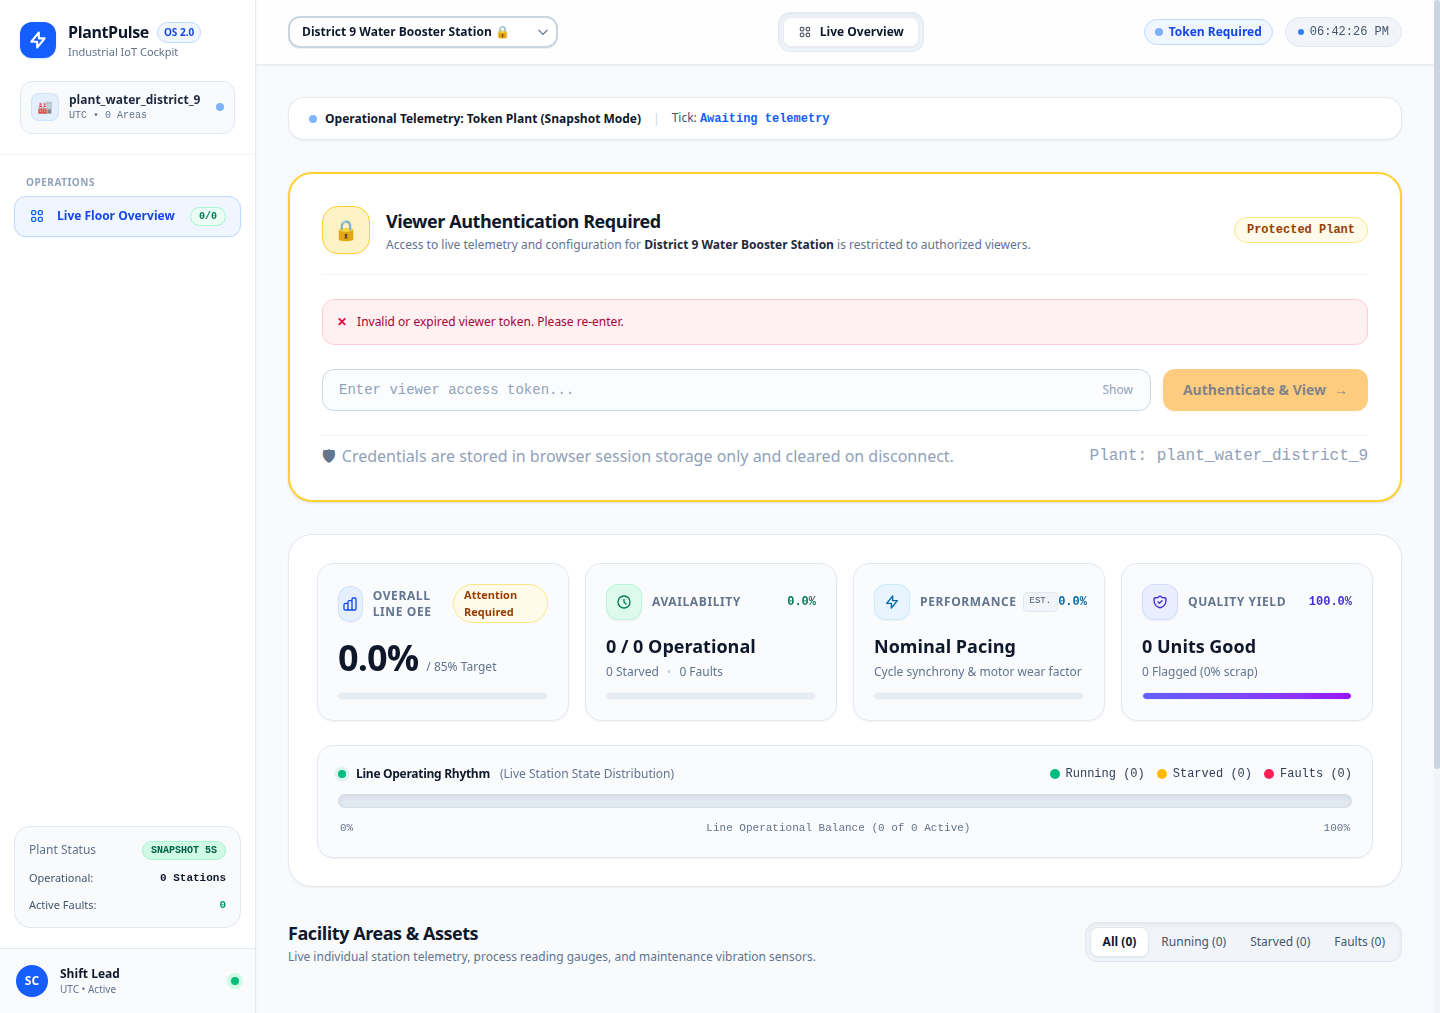
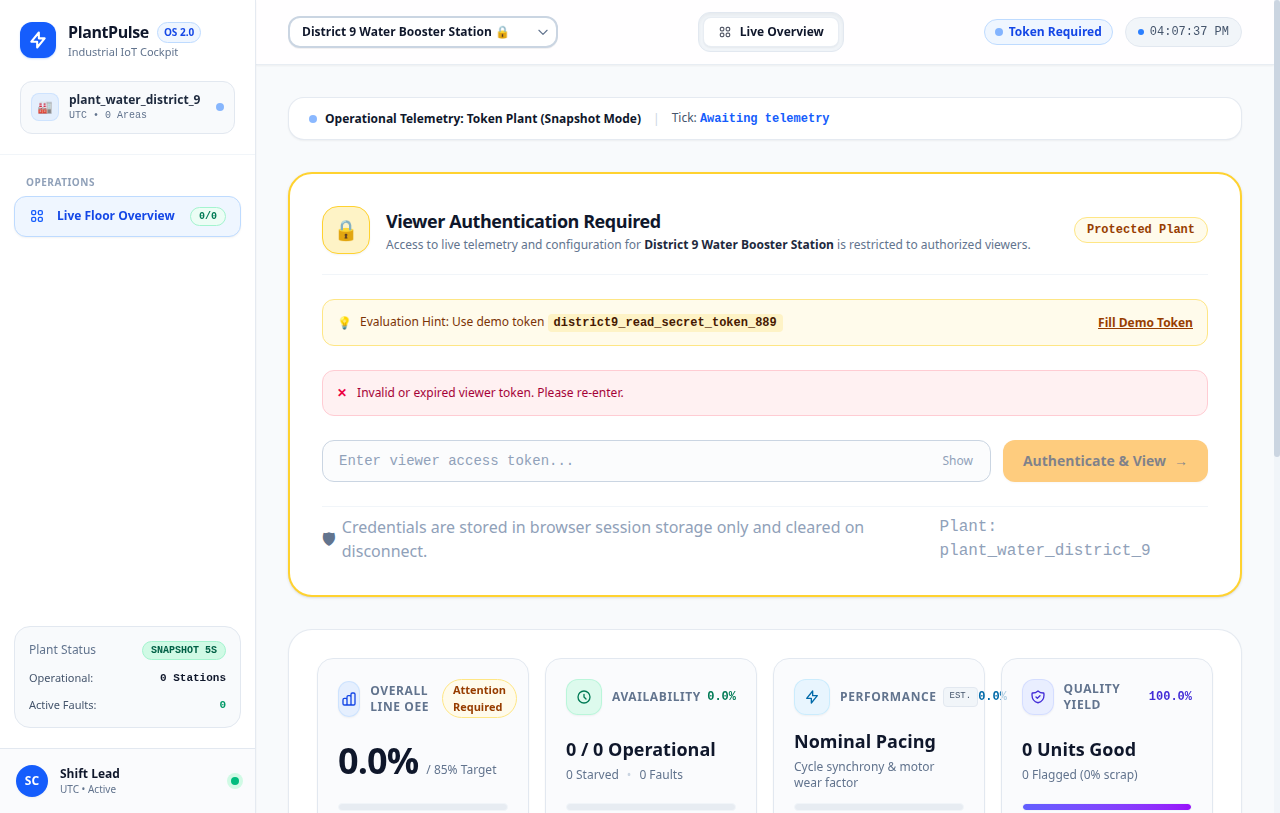
docs: rewrite README.md matching code, architecture, security model, and limitations (#86)

diff --git a/README.md b/README.md
@@ -8,7 +8,7 @@
 
 PlantPulse is a telemetry platform for simulated industrial plants. I built it to gain hands-on experience with MQTT, FastAPI, SQLite, WebSockets, Next.js, Docker Compose, pytest, and GitHub Actions. A Python simulator publishes machine data over MQTT, and a FastAPI service stores it and serves it to a Next.js dashboard. It models an 8040 membrane plant with four stages (housing, casting, assembly, and quality control) and extensible multi-plant definitions like municipal water booster stations. The devices are simulated because I don't have access to real industrial equipment.
 
-## Dashboard
+## Dashboard & System Views
 
 ### Demo Membrane Manufacturing Facility (Live Streaming)
 ![Overview Dashboard](docs/overview.png)
@@ -16,17 +16,30 @@ PlantPulse is a telemetry platform for simulated industrial plants. I built it t
 ### District 9 Water Booster Station (Snapshot Polling & Module Gating)
 ![Water Plant Overview](docs/water-plant.png)
 
+### Protected Plant Viewer Token Prompt
+![Viewer Token Authentication](docs/token-form.png)
+
+### Downsampled Telemetry Signal History Graph
+![Signal History Graph](docs/history-graph.png)
+
+### Admin Facility Management Portal
+![Admin Facility Portal](docs/admin-plants.png)
+
+---
+
 ## What it does
 
 PlantPulse is a multi-plant industrial IoT platform. Plants are declared via JSON schema definitions (`plants/*.json`) that define production areas, machines, expected telemetry signals, and enabled feature modules.
 
 - **8040 Membrane Manufacturing Facility (`plant_demo_membrane`):** An 11-machine production line across four stages (Housing, Membrane Casting, Robotic Assembly, and Quality Testing). Connected clients receive real-time telemetry over WebSockets.
-- **District 9 Water Booster Station (`plant_water_district_9`):** A municipal pumping station with three centrifugal pumps. Gated modules automatically hide assembly/QC tabs, and viewer-token authorization falls back to secure 5-second REST snapshot polling.
+- **District 9 Water Booster Station (`plant_water_district_9`):** A municipal pumping station with three centrifugal pumps. Gated modules automatically hide assembly/QC tabs, and viewer-token authorization falls back to secure 5-second REST snapshot polling or token-authenticated streaming.
 
-| Plant | Areas | Assets | Enabled Modules | Access |
+| Plant | Areas | Assets | Enabled Modules | Access Mode |
 |---|---|---|---|---|
 | `plant_demo_membrane` | Housing, Casting, Assembly, QC | 11 machines | Core, Alarms, Product Traceability, Quality Inspection | Public Demo (Live Streaming) |
-| `plant_water_district_9` | Primary Pump House | 3 intake/booster pumps | Core, Alarms | Token Required (Snapshot Polling) |
+| `plant_water_district_9` | Primary Pump House | 3 intake/booster pumps | Core, Alarms | Token Required (Snapshot Polling or Ticketed WebSocket) |
+
+---
 
 ## Architecture
 
@@ -38,13 +51,15 @@ flowchart LR
     end
 
     subgraph Messaging Layer
-        MQTT["Mosquitto Broker :1883<br/>(ACL & Password Auth)"]
+        MQTT["Mosquitto Broker :1883<br/>(Topic ACLs & Password Auth)"]
     end
 
     subgraph Platform Backend
-        API["FastAPI Backend :8000<br/>(Single Uvicorn Worker)"]
+        API["FastAPI Backend :8000<br/>(Uvicorn on 127.0.0.1)"]
         INGEST["IngestEngine<br/>(Async batch writer)"]
         HEART["Heartbeat Emitter<br/>(5s ping when viewers active)"]
+        RET["Retention Worker<br/>(30-day batched purge + vacuum)"]
+        THROTTLE["Rate Limiters<br/>(Sliding-window IP throttles)"]
     end
 
     subgraph Persistence
@@ -53,6 +68,7 @@ flowchart LR
 
     subgraph Client Application
         UI["Next.js Dashboard :3000<br/>(Dynamic Overview + Module Gating)"]
+        ADMIN["Admin Portal /admin<br/>(Topology & Credential Management)"]
     end
 
     SIM -->|publishes canonical MQTT topics| MQTT
@@ -62,15 +78,68 @@ flowchart LR
     WATCH -->|runs or pauses line| SIM
     API --> INGEST
     INGEST -->|batched commits off loop| DB
-    API -->|REST queries| UI
+    RET -->|scheduled purge & vacuum| DB
+    THROTTLE -->|guards REST & WS tickets| API
+    API -->|REST queries & downsampled history| UI
     API -->|WebSocket rooms /ws/{plant}/telemetry| UI
+    API -->|Admin CRUD endpoints| ADMIN
 ```
 
 ### Key Architectural Characteristics
 - **Heartbeat-as-Run Watchdog Protocol:** The simulator only runs while active browser viewers are connected. The API emits heartbeats every 5 seconds when viewers exist; after 30 seconds of silence, the simulator idles to prevent unconstrained SQLite database growth.
-- **Broker-Level Topic ACLs:** Edge credentials and topic access are compiled into Mosquitto password and ACL files (`plants/{plant_id}/#`) at boot. Broker port 1883 remains internal to the Docker network.
-- **Secret Seeding vs. Database Ownership:** Telemetry definition files (`plants/*.json`) contain zero plaintext secrets or device passwords. Environment variables (`PLANT_<ID>_VIEWER_TOKEN`, `DEVICE_<USERNAME>_PASSWORD`, etc.) seed the database on first boot. Once initialized, the database (`platform.db`) and the Admin API own plant secrets and viewer token hashes; environment variables only act as initial seeds and will not overwrite established database credentials.
+- **Broker-Level Topic ACLs & Password Auth:** Edge credentials and topic access are compiled into Mosquitto password and ACL files (`plants/{plant_id}/#`) at boot. Broker port 1883 remains internal to the Docker network.
 - **Narrow Telemetry Persistence:** Measurements are committed in batches (`telemetry_values`) with database-enforced idempotency (`UNIQUE(plant_id, message_id, signal_code)`).
+- **Strict Localhost Port Binding:** The API service binds port 8000 strictly to loopback (`127.0.0.1:8000`) in Docker Compose to prevent exposing backend endpoints directly on public network interfaces in VM deployments.
+
+---
+
+## Signal Telemetry History Graph
+
+PlantPulse provides time-series trend analysis for machine sensor readings via an interactive chart modal and downsampled API query:
+
+- **Endpoint:** `GET /api/plants/{plant_id}/signals/{machine_code}/{signal_code}/history`
+- **Time Windows:** Supported via query parameter `range` (`1h`, `6h`, `12h`, `24h`, default `1h`).
+- **Adaptive Downsampling:** Queries accept `points` (bounded between 10 and 500, default 300) and group timestamps into even time buckets using SQLite integer division, computing `avg_value`, `min_value`, and `max_value`.
+- **Gap Detection:** Frontend chart rendering detects gaps exceeding 2x the expected interval and inserts sentinel breaks to prevent misleading straight-line interpolation during simulator idle periods.
+
+---
+
+## Background Telemetry Retention
+
+To prevent unbounded SQLite database growth during extended runs, a scheduled background worker continuously enforces a configurable retention window:
+
+- **Configuration:** Controlled by `RETENTION_DAYS` (default `30` days) and `ENABLE_RETENTION_WORKER` (default `true`, disabled in test environments).
+- **Non-Blocking Batched Deletes:** Deletions run off the main event loop in chunks of 50,000 rows (`DELETE ... WHERE timestamp < ? LIMIT 50000`) until all expired telemetry is purged.
+- **Space Reclamation:** Periodically executes `PRAGMA incremental_vacuum` in small increments, or runs a full `VACUUM` when database free pages exceed a 20% threshold, ensuring concurrent ingestion writes remain responsive.
+
+---
+
+## Admin API & Management Portal
+
+PlantPulse includes a complete administrative facility management system mounted conditionally via environment variables:
+
+- **Activation:** Set `MOUNT_ADMIN_ENDPOINTS=true` and configure a 32+ character static `ADMIN_TOKEN`. When disabled, all `/api/admin/*` endpoints return 404 Not Found.
+- **Admin Portal (`/admin`):** A Next.js management interface providing:
+  - Token entry and session management (stored in React memory, never persisted to disk or `localStorage`).
+  - Plant facility registry and summary cards.
+  - Interactive multi-step form to create new plant topologies or import definitions from JSON.
+  - In-place plant topology editor (renaming areas, adding/removing machines and signals).
+  - Conflict confirmation flow (HTTP 409) displaying plain-word removal warnings before applying destructive structural changes.
+  - Safe plant deletion requiring confirmation by typing the target `plant_id` (system plants are protected with disable badges).
+  - One-time MQTT credential rotation modal with copyable passwords.
+  - Definition export downloading sanitized JSON (strictly redacting all tokens, passwords, and secret hashes).
+
+---
+
+## Security Model
+
+PlantPulse employs defense-in-depth across the broker, API, database, and client layers:
+
+1. **Broker Isolation & Topic ACLs:** Each simulated device authenticates with Mosquitto using dedicated credentials. ACL rules enforce read/write access strictly to `plants/{plant_id}/#`. The broker port (`1883`) is never exposed outside the Docker bridge network.
+2. **Viewer Access Tokens & Database Ownership:** Plant definition files (`plants/*.json`) contain zero plaintext passwords or viewer tokens. Secrets are seeded into SQLite (`platform.db`) on first boot via environment variables. Viewer tokens are stored exclusively as SHA-256 hashes (`plants.viewer_token_hash`).
+3. **Single-Use WebSocket Tickets:** Protected WebSocket streams (`/ws/{plant_id}/telemetry`) require a short-lived ticket (`POST /api/plants/{plant_id}/ws-ticket`) issued with Bearer authorization. Tickets are valid for 30 seconds and consumed on first use to prevent secret leakage in URL query parameters and access logs.
+4. **Sliding-Window Rate Limiting:** Separate in-memory rate limiters protect Admin and Viewer endpoints. After 5 incorrect token guesses within a 60-second window, subsequent requests receive HTTP 429 (`Too Many Requests`) with a `Retry-After` header. Rate limiting checks the lockout status before parsing headers or comparing hashes, and malformed authorization headers count against the attempt budget.
+5. **No Reverse-Proxy Header Trust:** Client IP addresses are extracted directly from the underlying socket host without trusting `X-Forwarded-For` headers, preventing header spoofing attacks.
 
 ---
 
@@ -100,7 +169,7 @@ docker compose ps
 
 All services will show `(healthy)`:
 - `plantpulse-broker-1`: Mosquitto broker (internal `1883/tcp`)
-- `plantpulse-api-1`: FastAPI backend on `http://localhost:8000`
+- `plantpulse-api-1`: FastAPI backend on `http://127.0.0.1:8000`
 - `plantpulse-dashboard-1`: Next.js web application on `http://localhost:3000`
 - `plantpulse-simulator-1`: Simulator runner client
 
@@ -129,7 +198,9 @@ python scripts/smoke_stack.py
 Prerequisites: Python 3.12, Node 22+, and a local Mosquitto broker.
 
 ```bash
-# 1. Start Mosquitto with generated auth
+# 1. Configure environment and start Mosquitto with generated auth
+cp .env.example .env && set -a && source .env && set +a
+
 python scripts/generate_mosquitto_auth.py \
   --passwd-path /tmp/mosquitto.passwd \
   --acl-path /tmp/mosquitto.acl \
@@ -161,10 +232,10 @@ npm run dev
 ## Testing & Quality Assurance
 
 ```bash
-# Backend pytest suite
+# Backend pytest suite (171 passed)
 pytest -v
 
-# Frontend unit tests
+# Frontend unit tests (59 passed)
 cd frontend && npm test
 
 # Linting & code formatting
@@ -177,12 +248,13 @@ codespell --skip="*.db*,*.wal,*.shm,./venv,./frontend/node_modules,./frontend/.n
 
 ## Known Limitations
 
-This is a portfolio and learning project demonstrating distributed industrial IoT telemetry patterns. The following known limitations are intentionally documented:
+This is a portfolio and learning project demonstrating distributed industrial IoT telemetry patterns. The following limitations are intentionally documented:
 
-1. **Secret Ownership & Environment Seeding:** Plant viewer tokens and device passwords are never stored in definition files (`plants/*.json`). Environment variables (`PLANT_<ID>_VIEWER_TOKEN`, `DEVICE_<USERNAME>_PASSWORD`, or demo fallbacks `MQTT_PASSWORD`/`WATER_MQTT_PASSWORD`) only provide initial seeds on first boot. After first boot, the platform database (`platform.db`) and the Admin API own the secrets and hashes; changing environment variables after the initial database sync will not overwrite existing credentials in the database unless updated via the Admin API.
-2. **Rate Limiting Behind Reverse Proxies (Shared IP):** Both the Admin and Viewer sliding-window rate limiters enforce throttling based on the client socket IP address without trusting `X-Forwarded-For` headers (to prevent IP spoofing attacks). When deploying behind a reverse proxy or load balancer without an upstream gateway that rewrites socket client addresses, all clients behind that proxy share the same rate-limiting bucket. Multiple failed attempts from one client behind a shared IP will lock out other clients on the same IP until the lockout duration expires.
-3. **Faulted Machines Never Recover:** When a simulated machine's vibration exceeds the safety limit (7.0 mm/s), it transitions to `FAULT` permanently. Automated recovery and work-order clearing are not yet implemented.
-4. **No Backpressure in Simulator Queues:** Housing runs continuously with unlimited raw materials, so the queue in front of Membrane Casting grows without bound if upstream throughput exceeds downstream cycle times.
-5. **Weather Model is a Placeholder:** Ambient weather bias in defect modeling evaluates to a constant 0.0 until an external weather API integration is built.
-6. **Defect Patterns Exist by Construction:** QC defect probabilities are generated from mathematical formulas (shift-change bias + anomaly deviations) rather than real physical defect causes.
-7. **Viewer Token Removal:** The Admin API and UI do not support removing or clearing a viewer access token once configured on a plant (a blank token on update preserves the existing token hash). Making a protected plant public requires manual database intervention or recreation.
+1. **Public Demo Passwords & Tokens in `.env.example`:** Pre-configured demo credentials (e.g., `MQTT_PASSWORD`, `WATER_MQTT_PASSWORD`, and `PLANT_WATER_DISTRICT_9_VIEWER_TOKEN`) are included in `.env.example` to allow zero-setup out-of-the-box evaluation. In production environments, credentials should be randomly generated and injected through external secret managers.
+2. **In-Memory Rate Limiter Reset & Proxy IP Sharing:** Rate-limiting attempt histories are maintained in memory and reset whenever the API process restarts. Because client socket IPs are evaluated directly without trusting `X-Forwarded-For`, clients situated behind a shared reverse proxy or corporate NAT pool share a single rate-limiting bucket.
+3. **Legacy `/api` Endpoints Unauthenticated:** Legacy endpoints retained for backwards compatibility (`/api/units`, `/api/summary`) are unauthenticated. Production deployments should disable or deprecate legacy routes.
+4. **SQLite Single-File Persistence:** The platform persists telemetry in a single local SQLite file (`platform.db`) using WAL mode. While efficient for single-node deployments, it lacks distributed clustering, high availability, and horizontal multi-writer scaling.
+5. **At-Most-Once Delivery Inside API:** The IngestEngine buffers incoming MQTT telemetry in an asynchronous queue before committing batched inserts. An abrupt server termination or container kill will drop in-flight uncommitted measurements.
+6. **Retention VACUUM Requires Free Disk Space:** SQLite full `VACUUM` operations duplicate the database file during compaction. Running a full vacuum on large databases requires free disk capacity equal to or greater than the current size of `platform.db`.
+7. **Static Admin Token Until Login Session (#55):** Admin authentication currently uses a static pre-shared Bearer secret (`ADMIN_TOKEN`). Interactive user accounts, database-backed roles, and session token rotation are cataloged for a subsequent milestone.
+8. **No Viewer Token Removal in Admin UI:** The Admin UI allows rotating or updating existing plant viewer tokens, but clearing a token back to public unauthenticated access is not supported from the interface (preserving the existing token hash on blank submission). Making a protected plant public requires manual database intervention.
